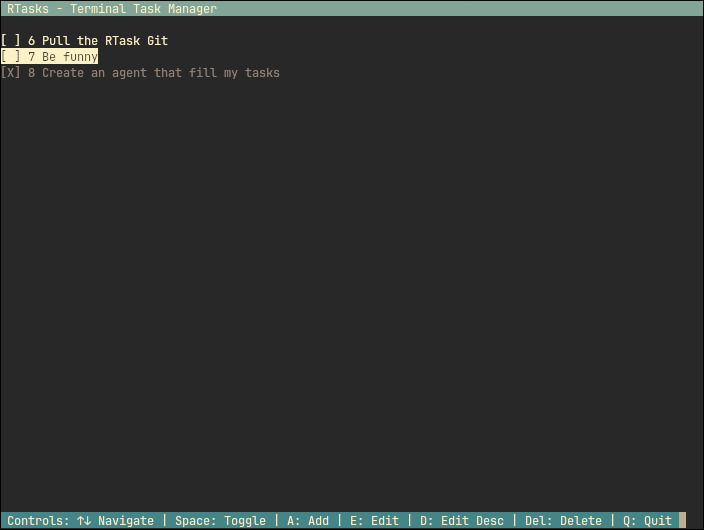
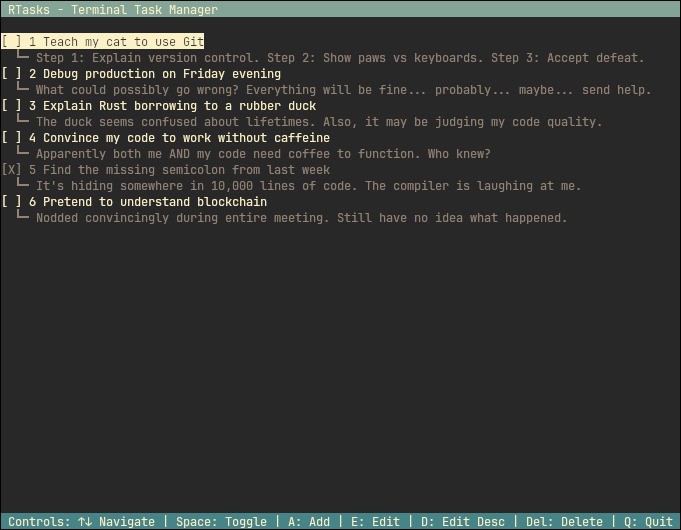
Enhance task management: add temporary storage for task title and improve description display

diff --git a/src/main.rs b/src/main.rs
@@ -26,6 +26,7 @@ struct App {
     mode: AppMode,
     input_buffer: String,
     next_id: usize,
+    temp_task_title: String, // Temporary storage for task title during creation
 }
 
 #[derive(Debug, PartialEq)]
@@ -45,6 +46,7 @@ impl App {
             mode: AppMode::Normal,
             input_buffer: String::new(),
             next_id: 1,
+            temp_task_title: String::new(),
         };
         app.load_tasks();
         app
@@ -242,14 +244,18 @@ fn draw_ui(app: &App) -> std::io::Result<()> {
             let task_text = format!("{} {} {}", status_symbol, task.id, task.title);
             execute!(stdout(), Print(task_text))?;
             
-            if !task.description.is_empty() {
-                execute!(stdout(), SetForegroundColor(Color::DarkGrey))?;
-                execute!(stdout(), Print(format!(" - {}", task.description)))?;
-            }
-            
             execute!(stdout(), SetBackgroundColor(Color::Reset))?;
             execute!(stdout(), ResetColor)?;
             current_line += 1;
+            
+            // Display description on a separate line if it exists
+            if !task.description.is_empty() {
+                execute!(stdout(), cursor::MoveTo(2, current_line))?; // Indent description
+                execute!(stdout(), SetForegroundColor(Color::DarkGrey))?;
+                execute!(stdout(), Print(format!("└─ {}", task.description)))?;
+                execute!(stdout(), ResetColor)?;
+                current_line += 1;
+            }
         }
     }
 
@@ -306,27 +312,27 @@ fn handle_input(app: &mut App) -> std::io::Result<bool> {
                     KeyCode::Esc => {
                         app.mode = AppMode::Normal;
                         app.input_buffer.clear();
+                        app.temp_task_title.clear(); // Clear temp data when canceling
                     }
                     KeyCode::Enter => {
                         let input = app.input_buffer.trim().to_string();
-                        if !input.is_empty() {
+                        if !input.is_empty() || app.mode == AppMode::AddDescription {
                             match app.mode {
                                 AppMode::AddTask => {
-                                    app.mode = AppMode::AddDescription;
-                                    // Store the title temporarily
-                                    let title = app.input_buffer.clone();
+                                    // Store the title and move to description mode
+                                    app.temp_task_title = app.input_buffer.clone();
                                     app.input_buffer.clear();
-                                    // We'll need to store this title somewhere temporary
-                                    // For now, let's add the task with empty description
-                                    app.add_task(title, String::new());
-                                    app.mode = AppMode::Normal;
+                                    app.mode = AppMode::AddDescription;
                                 }
                                 AppMode::EditTask => {
                                     app.edit_current_task(input);
                                     app.mode = AppMode::Normal;
                                 }
                                 AppMode::AddDescription => {
-                                    // This case won't happen with current flow
+                                    // Create the task with title and description
+                                    let description = app.input_buffer.clone();
+                                    app.add_task(app.temp_task_title.clone(), description);
+                                    app.temp_task_title.clear();
                                     app.mode = AppMode::Normal;
                                 }
                                 AppMode::EditDescription => {
@@ -400,7 +406,7 @@ fn main() -> std::io::Result<()> {
             .unwrap_or_default();
         
         app.add_task(task_title.clone(), description);
-        println!("✅ Task added: {}", task_title);
+        println!("Task added: {}", task_title);
         return Ok(());
     }
 
@@ -408,15 +414,10 @@ fn main() -> std::io::Result<()> {
         if app.tasks.is_empty() {
             println!("No tasks found.");
         } else {
-            println!("📋 Your tasks:");
+            println!("Your tasks:");
             for task in &app.tasks {
-                let status = if task.completed { "✅" } else { "⬜" };
-                let desc = if task.description.is_empty() {
-                    String::new()
-                } else {
-                    format!(" - {}", task.description)
-                };
-                println!("{} [{}] {}{}", status, task.id, task.title, desc);
+                let status = if task.completed { "[X]" } else { "[ ]" };
+                println!("{} [{}] {}", status, task.id, task.title);
             }
         }
         return Ok(());
